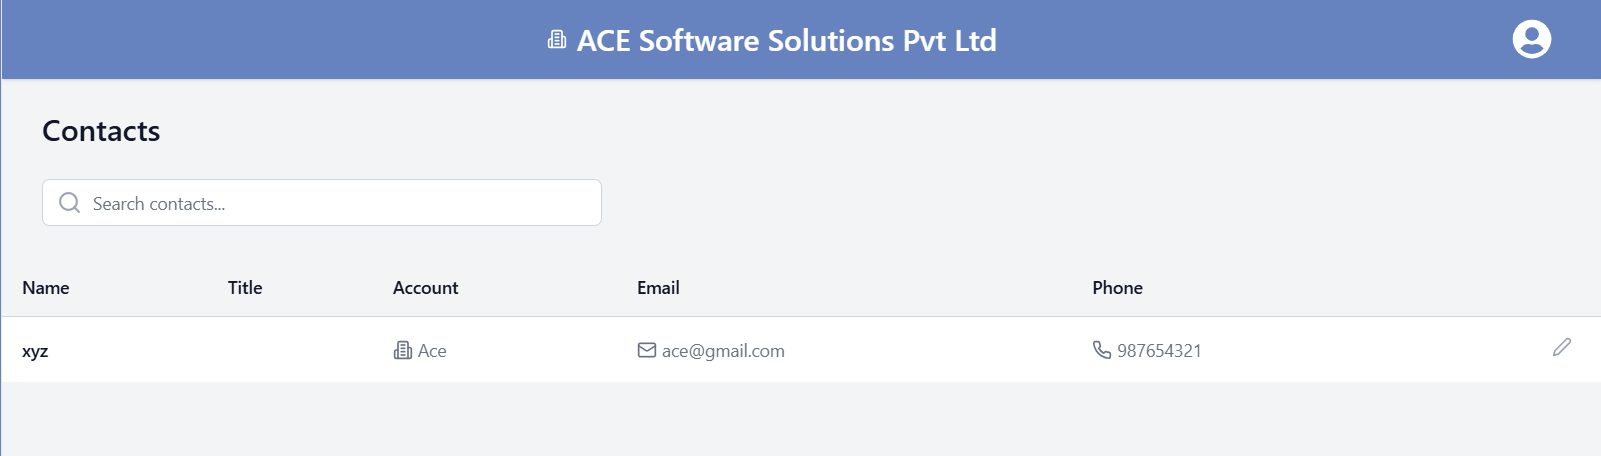
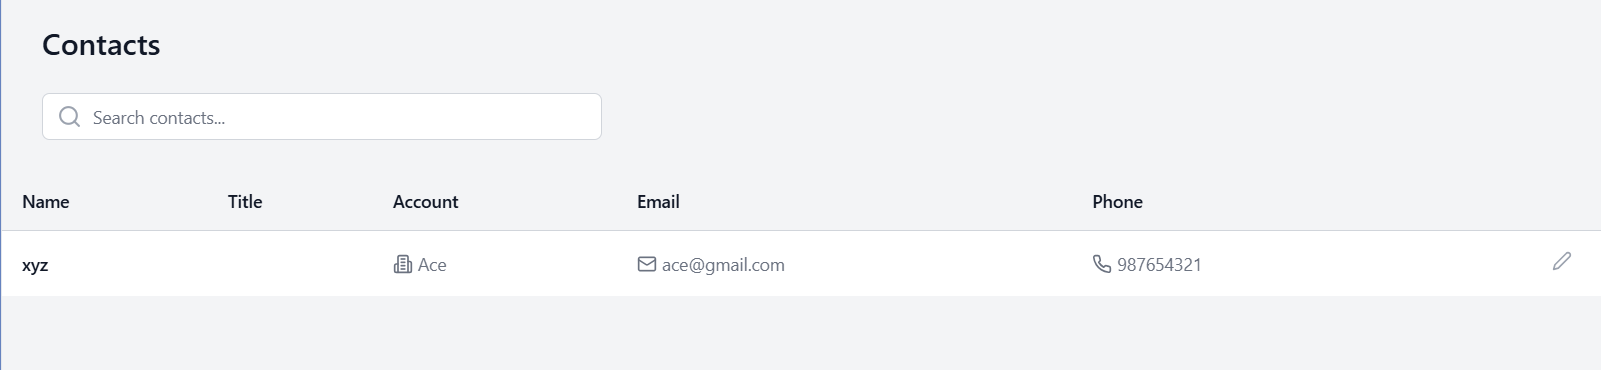
box

diff --git a/ACE_CRM/src/components/Features.jsx b/ACE_CRM/src/components/Features.jsx
@@ -161,12 +161,14 @@ export default function Features() {
 
                 <motion.div
                   variants={slideInLeft}
-                  className="  w-1/3 md:w-[500px] xl:w-1/2 mt-[270px] pl-2 pe-5 lg:px-1 lg:mt-20 text-left xl:ml-5 z-[59] leading-[40px]"
+                  className="  w-1/3 md:w-[500px] xl:w-1/2 mt-[270px] pl-2 pe-5 lg:px- lg:py-5 lg:mt-20 text-left xl:ml-5 z-[59] leading-[40px]  "
                 >
-                  <span className="font-['Inter'] text-[16px] lg:text-[20px] 2xl:text-[22px] text-[#343434] font-semibold">
+                <div className=" lg:pl-5 lg:rounded-full border lg:py-2 lg:shadow-xl ">
+                <span className="font-['Inter'] text-[14px] lg:text-[20px] 2xl:text-[22px] text-[#0067FF]  font-medium ">
                     Navigate with ease, no training needed — just smooth,
                     intuitive CRM from day one.
                   </span>
+                </div>
                 </motion.div>
               </div>
             </div>
@@ -211,10 +213,12 @@ export default function Features() {
                   variants={fadeInUp}
                   className=" w-[360px] md:w-[450px] lg:w-[450px] xl:w-[560px] xxl:w-[620px] 2xl:w-full mt-[280px] lg:mt-20 text-left ml-2 lg:ml-5 xl:ml-8 xxl:ml-12 px-0 z-[89]"
                 >
-                  <span className="font-['Inter'] text-[16px] lg:text-[20px] 2xl:text-[22px] text-[#343434] font-semibold leading-[40px]">
+                 <div className=" lg:-ml-5 lg:pl-5 lg:rounded-full border lg:py-2 lg:shadow-xl ">
+                 <span className="font-['Inter'] text-[16px] lg:text-[20px] 2xl:text-[22px] text-[#343434] font-semibold leading-[40px]">
                     ACE CRM auto-fills, syncs, and links your data—so you can
                     focus on selling, not typing.
                   </span>
+                 </div>
                 </motion.div>
               </div>
 
@@ -275,12 +279,14 @@ export default function Features() {
 
               <motion.div
                 variants={slideInLeft}
-                className=" w-[360px] md:w-[500px] lg:w-[500px] xl:w-[550px] h-[340px] font-['Inter'] leading-[40px] xl:mt-10 xxl:mt-14 absolute top-[450px] md:top-[475px] lg:top-[320px] lg:left-[38px] xl:left-[26px] xxl:left-[10px] text-left z-[99]"
+                className=" w-[360px] md:w-[500px] lg:w-[500px] xl:w-[590px] h-[340px] font-['Inter'] leading-[40px] xl:mt-10 xxl:mt-14 absolute top-[450px] md:top-[475px] lg:top-[320px] lg:left-[38px] xl:left-[26px] xxl:left-[10px] text-left z-[99]"
               >
-                <span className="font-['Inter'] text-[16px]  lg:text-[20px] 2xl:text-[22px] text-[#343434] font-semibold">
+                   <div className=" lg:pl-5 lg:rounded-full border lg:py-2 lg:shadow-xl lg:px-5 ">
+                   <span className="font-['Inter'] text-[16px]  lg:text-[20px] 2xl:text-[22px] text-[#343434] font-semibold ">
                   Look professional, close faster custom quotes in just a few
                   clicks with ACE CRM.
                 </span>
+                   </div>
               </motion.div>
             </div>
 
@@ -334,10 +340,12 @@ export default function Features() {
                   variants={fadeInUp}
                   className="w-[380px] md:w-[500px] lg:w-[500px] xl:w-full xxl:w-[700px] mt-64 md:mt-72 lg:mt-20 text-left px-2 lg:px-0  z-[89] ml-28 lg:ml-20 xl:ml-24 xxl:ml-10 2xl:ml-20 "
                 >
-                  <span className="  font-['Inter'] text-[16px] lg:text-[20px] 2xl:text-[22px] text-[#343434] font-semibold leading-[40px]">
+                     <div className=" lg:-ml-5 lg:pl-5 lg:rounded-full border lg:py-2 lg:shadow-xl lg:px-1">
+                     <span className="  font-['Inter'] text-[16px] lg:text-[20px] 2xl:text-[22px] text-[#343434] font-semibold leading-[40px]">
                     ACE CRM auto-fills, syncs, and links your data so you can
                     focus on selling, not typing.
                   </span>
+                     </div>
                 </motion.div>
               </div>
 

diff --git a/ACE_CRM/src/components/Header.jsx b/ACE_CRM/src/components/Header.jsx
@@ -14,7 +14,7 @@ const Navbar = () => {
   };
 
   return (
-    <nav className="bg-white py-1 lg:px-6 xxl:px-20 2xl:px-28 flex items-center justify-between 2xl:container mx-auto">
+    <nav className="bg-white py- pt-2 lg:px-6 xxl:px-20 2xl:px-28 flex items-center justify-between 2xl:container mx-auto">
       <div className="flex items-center">
         <div className="mr-2 -mt-1 sm:mr-3 ">
         <img src={logo} alt=""  className='h-11 sm:h-12 sm:w-15 rounded-full'/>

diff --git a/ACE_CRM/src/page/index.css b/ACE_CRM/src/page/index.css
@@ -3,10 +3,7 @@
 @tailwind utilities;
 
 :root {
-  --default-font-family: -apple-system, BlinkMacSystemFont, "Segoe UI", Roboto,
-    Ubuntu, "Helvetica Neue", Helvetica, Arial, "PingFang SC",
-    "Hiragino Sans GB", "Microsoft Yahei UI", "Microsoft Yahei",
-    "Source Han Sans CN", sans-serif;
+  --default-font-family: 'Inter', sans-serif
 }
 
 body {
